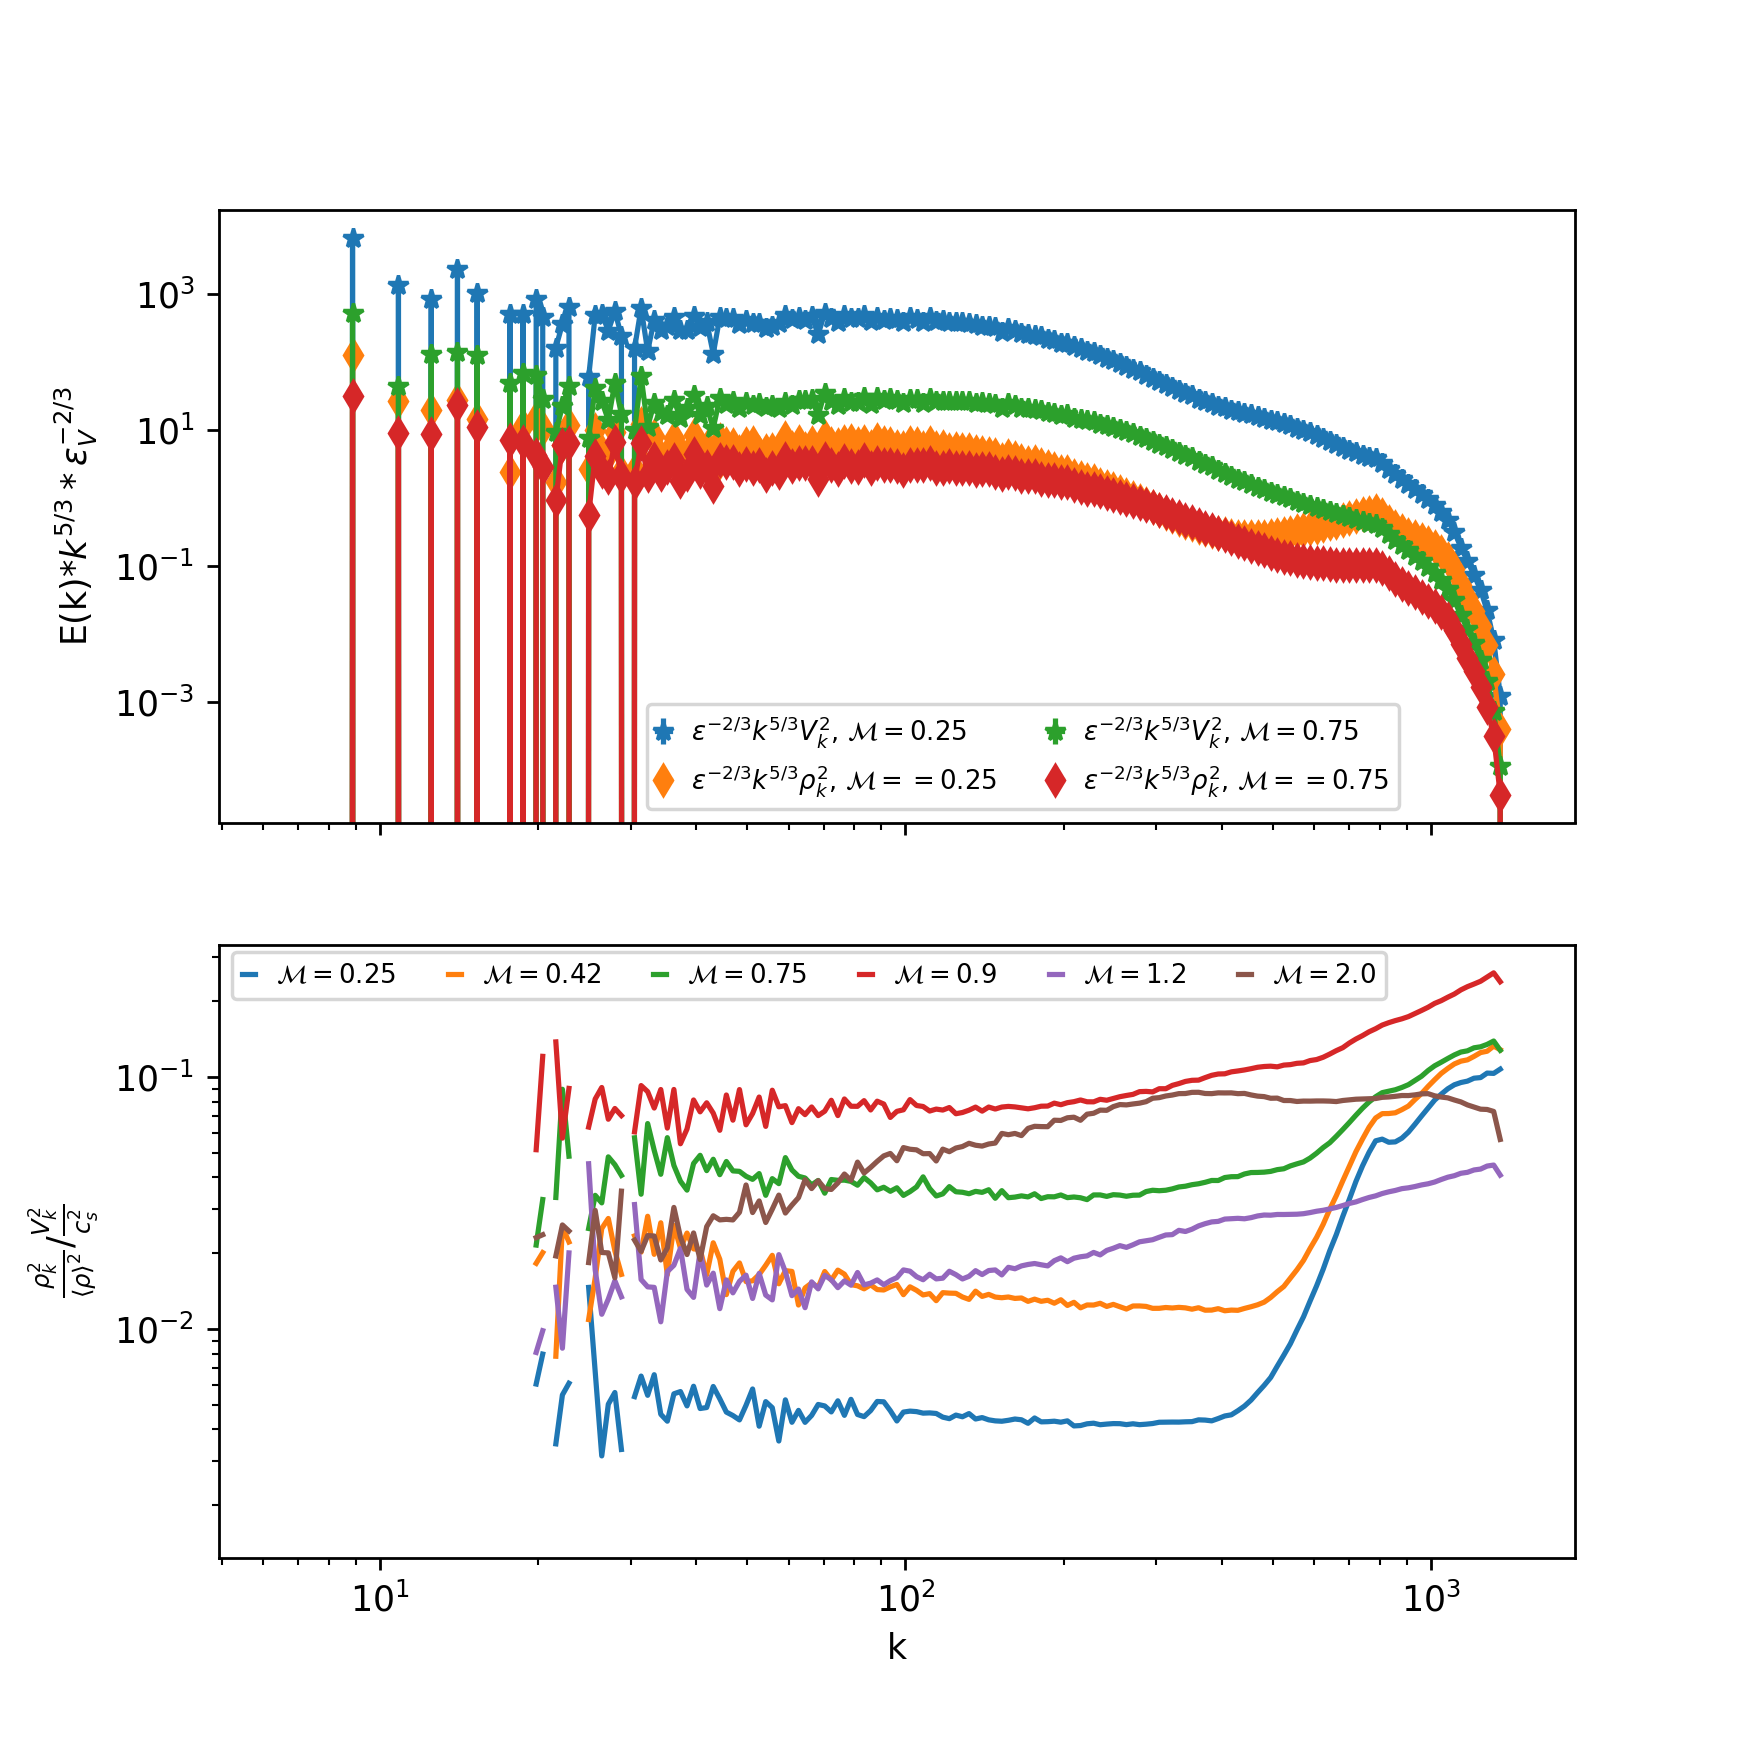
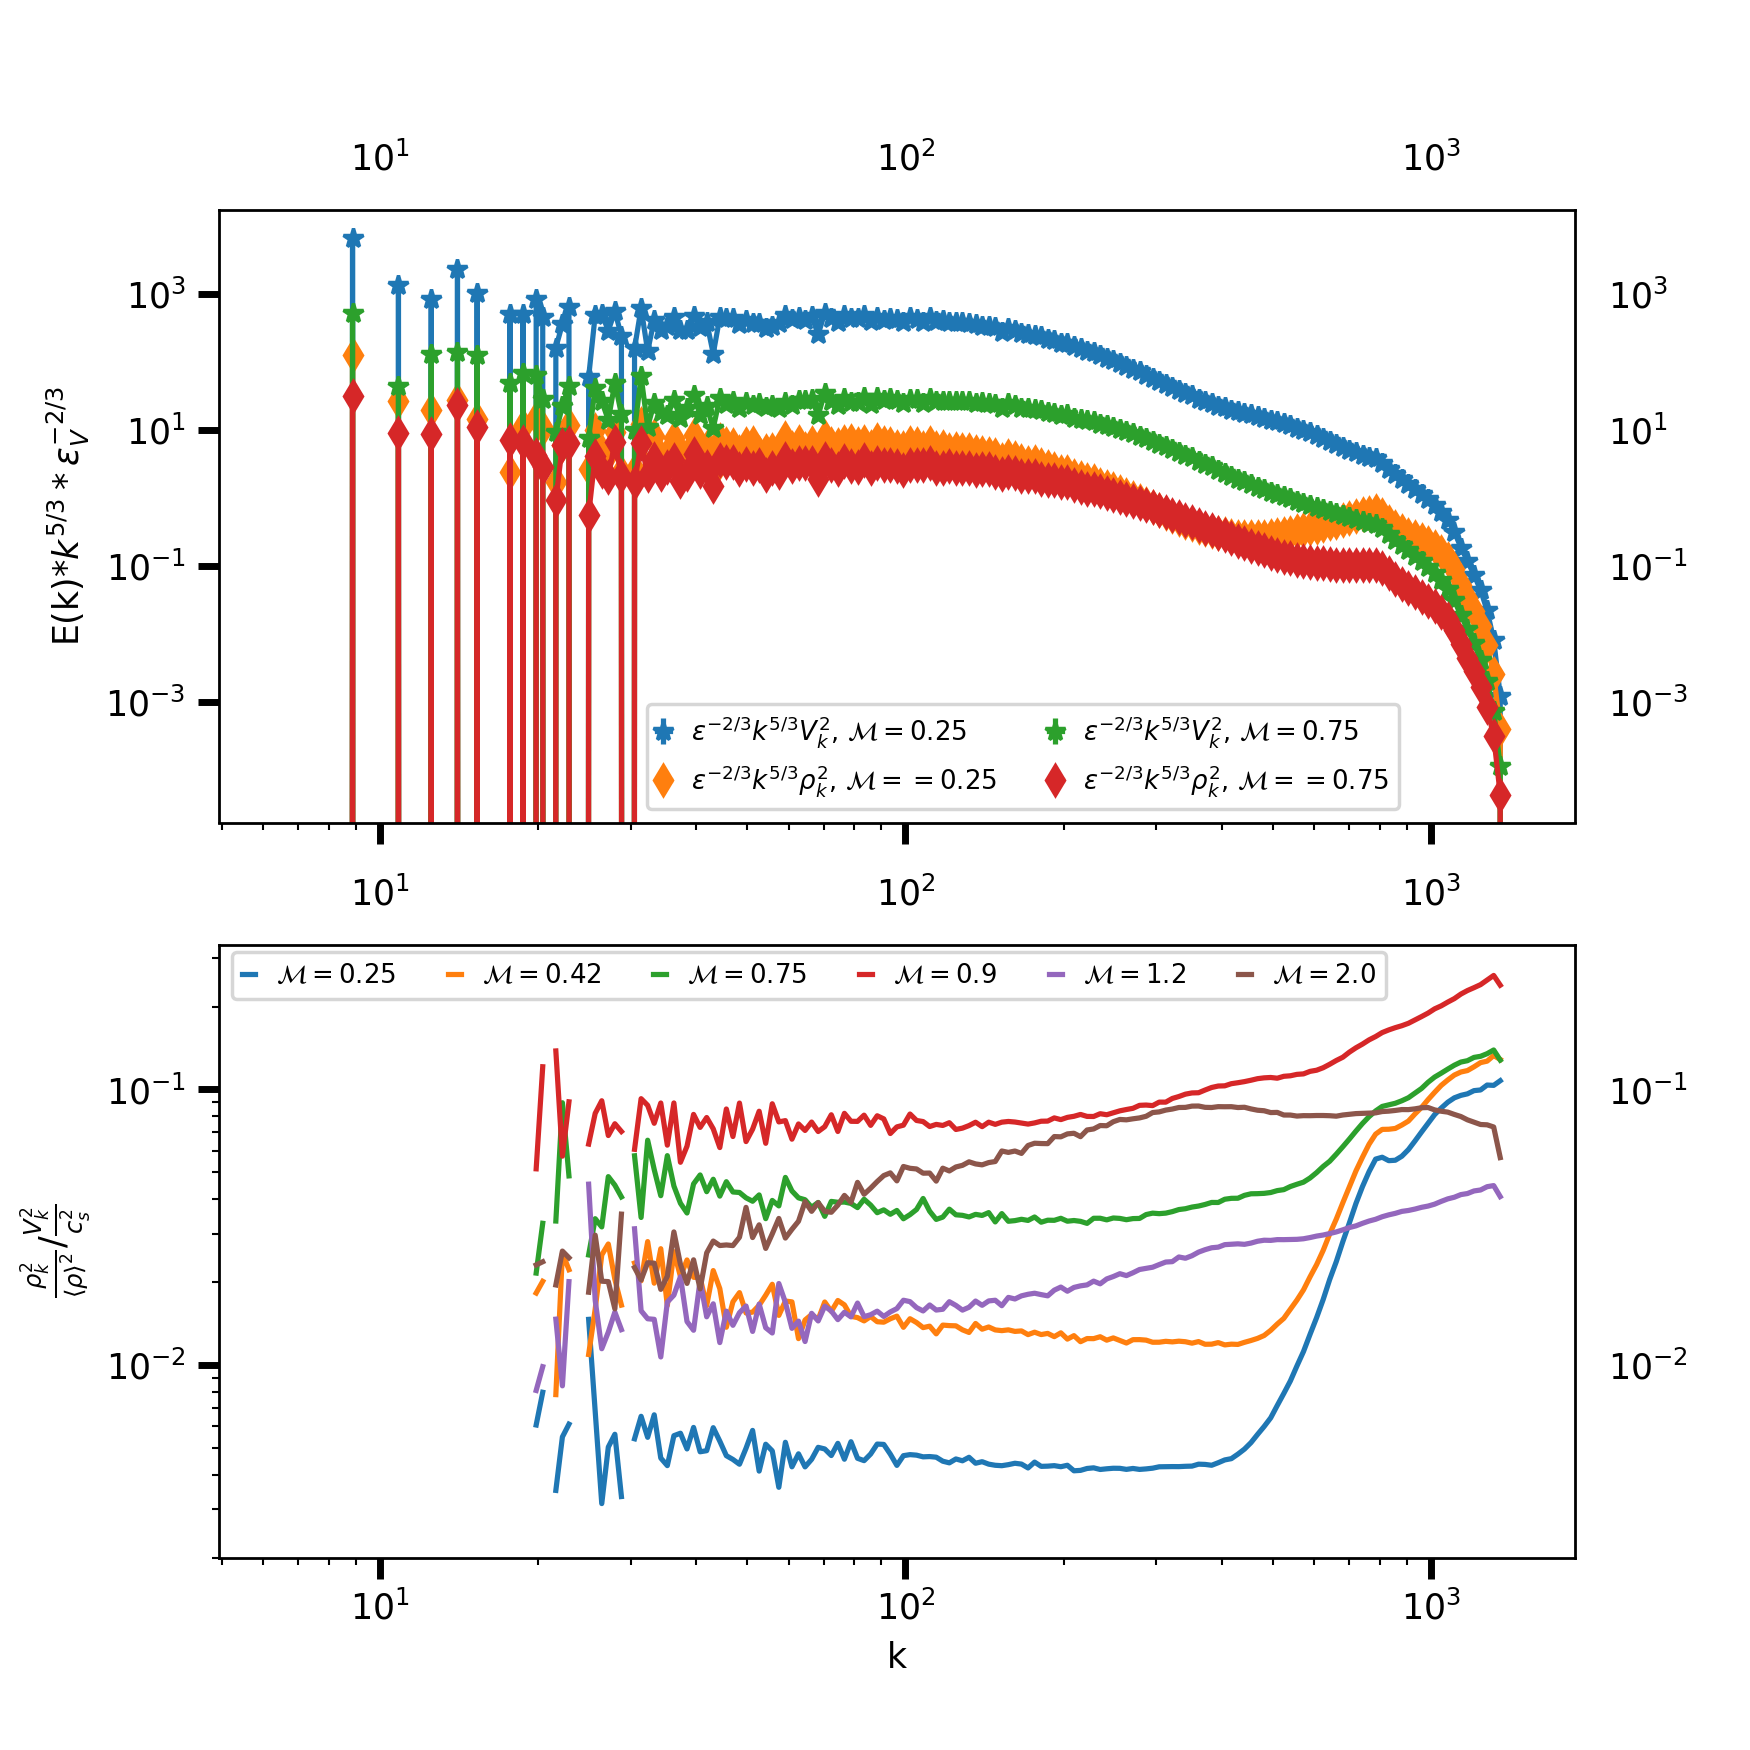
Added new visit plots

diff --git a/del-rho-plots/density_perturb.py b/del-rho-plots/density_perturb.py
@@ -12,11 +12,11 @@ UNIT_VELOCITY= (1.e8)
 UNIT_LENGTH =  (CONST_pc*40.e3)
 UNIT_TIME=UNIT_LENGTH/UNIT_VELOCITY/(3.15e13)
 
-no_files=13
+no_files=10
 #Load data files
-wdir=('tabulated_cooling/256/k0-2/', 'tabulated_cooling/256/k12/', 'thermal_heating/256/tabulated_cooling/F5e-1/k0-2/', 'thermal_heating/256/tabulated_cooling/F1e-1/k0-2/', 'thermal_heating/256/tabulated_cooling/F1e-2/k0-2/', 'thermal_heating/256/tabulated_cooling/F1e-3/k0-2/', 'thermal_heating/256/tabulated_cooling/F5e-1/k12/', 'thermal_heating/256/tabulated_cooling/F1e-1/k12/', 'thermal_heating/256/tabulated_cooling/F1e-2/k12/', 'thermal_heating/256/tabulated_cooling/F1e-3/k12/', 'no_turb/', 'turb_perturb/F1e-2/k12/', 'turb_perturb/F1e-3/k12/')
+wdir=('tabulated_cooling/256/k0-2/', 'tabulated_cooling/256/k12/', 'thermal_heating/256/tabulated_cooling/F5e-1/k0-2/', 'thermal_heating/256/tabulated_cooling/F1e-1/k0-2/', 'thermal_heating/256/tabulated_cooling/F5e-1/k12/', 'thermal_heating/256/tabulated_cooling/F1e-1/k12/', 'no_turb/2e-2/', 'turb_perturb/F1e-2/k12/')
 
-labels=('Ckl', 'Ckh', 'HCkl1', 'HCkl2', 'HCkl3', 'HCkl4', 'HCkh1', 'HCkh2', 'HCkh3', 'HCkh4', 'DHC', 'DHCkh1', 'DHCkh2')
+labels=('Ckl', 'Ckh', 'HCkl1', 'HCkl2', 'HCkl3', 'HCkh1', 'HCkh2', 'HCkh3', 'DkHC', 'DHCkh')
 
 fig, ax = plt.subplots()
 for i1 in xrange(0,no_files):

diff --git a/All_analysis/diff_spectra.py b/All_analysis/diff_spectra.py
@@ -88,6 +88,7 @@ for i in xrange(0, start.size):
 	ax2.plot(k1[1:-10],Ek2[1:-10]/Ek1[1:-10], label='$\mathcal{M}=$'+str(mach[i]))
 ax1.set_yscale('log')
 ax1.set_xscale('log')
+ax1.tick_params(direction='out', length=6, width=2, labeltop=True, labelright=True)
 #ax1.set_xlabel('k')
 ax1.set_ylabel('E(k)*$k^{5/3}*\epsilon_V^{-2/3}$')
 # Put a legend to the right of the current axis
@@ -96,8 +97,10 @@ ax1.legend(loc='lower right', bbox_to_anchor=(0.88, 0.0), ncol=2)
 
 ax2.set_yscale('log')
 ax2.set_xscale('log')
+ax2.tick_params(direction='out', length=6, width=2, labeltop=True, labelright=True)
 ax2.set_xlabel('k')
 ax2.set_ylabel(r'$\frac{\rho_k^2}{\left<\rho\right>^2}/\frac{V_k^2}{c_s^2}$')
+ax2.set_ylim(2.e-3,)
 ax2.legend(loc='center left', bbox_to_anchor=(0, 0.95), ncol=6)
 #ax2.set_title(r'Ratio of velocity and density power spectra' )
 plt.savefig('Ratio_rho-vel_lowk_256.png',dpi=250)

diff --git a/surface_brightness/sb.py b/surface_brightness/sb.py
@@ -28,8 +28,8 @@ no_bins=50
 diff=(rmax-rmin)*(1./no_bins)
 nx,ny,nz=256,256,256
 
-filedir="/mnt/lustre/ug4/ugrajs/cooling/turb_perturb/F1e-3/k12/"
-for filenumber in range(3,226,3):
+filedir="/mnt/lustre/ug4/ugrajs/cooling/no_turb/2e-2/"
+for filenumber in range(37,78,2):
 
 
 	#Sort the data arrays into new 1D arrays, in increasing order of distance from the centre
